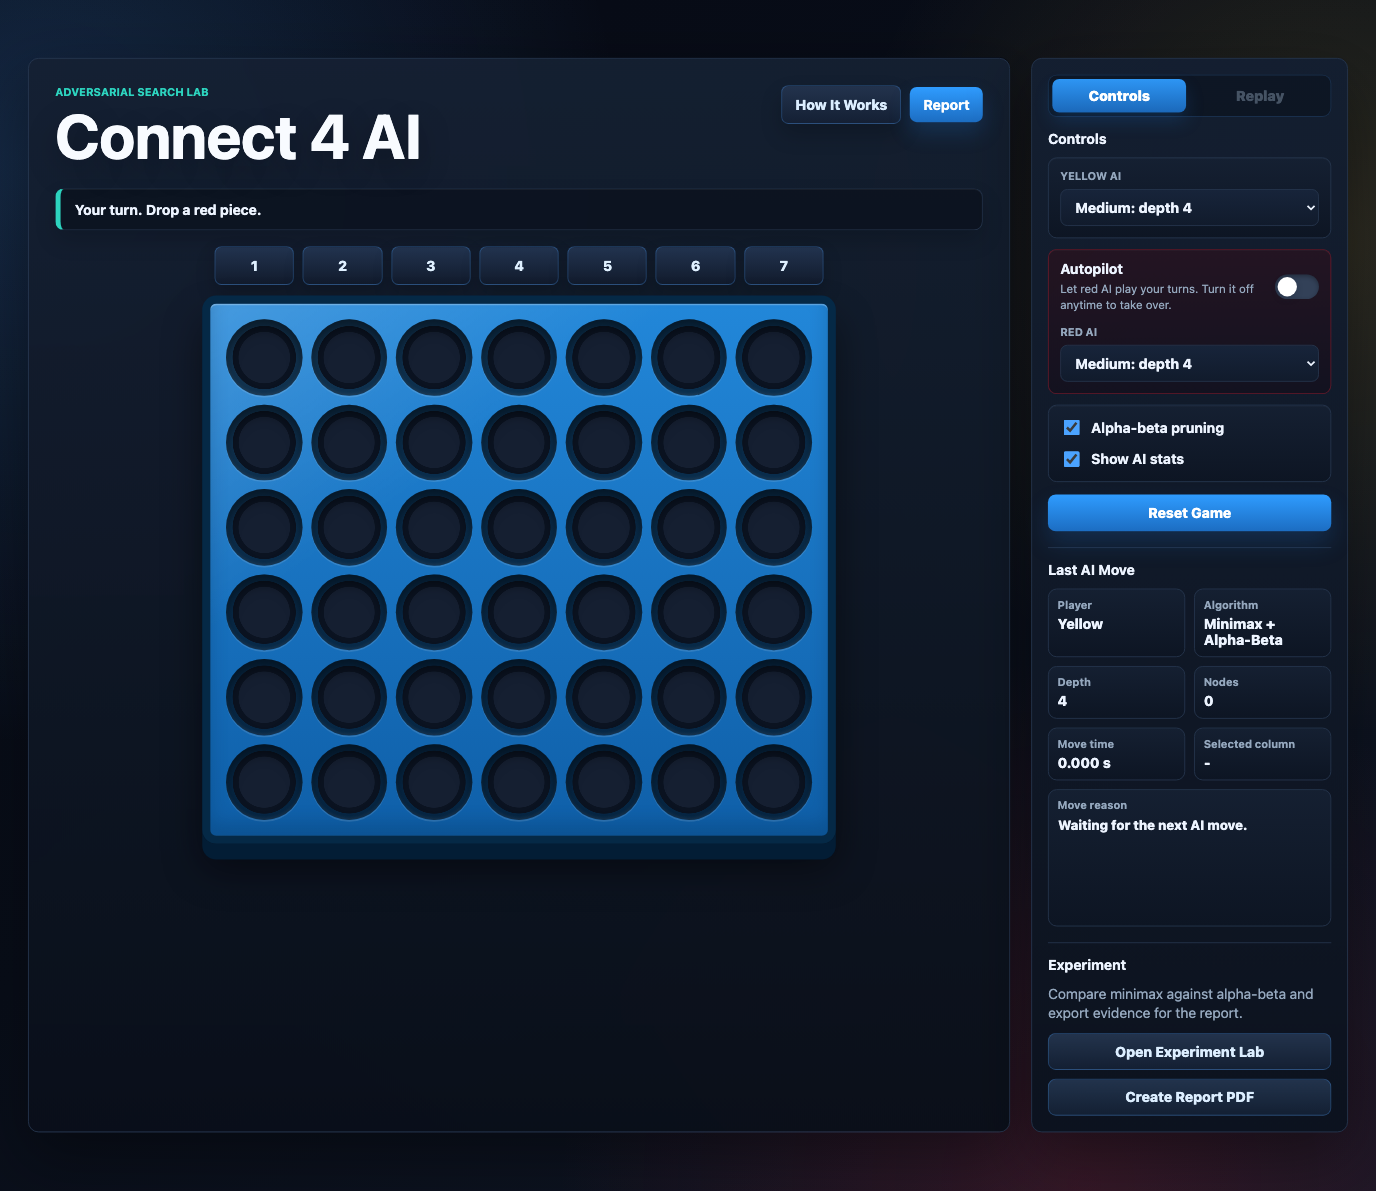
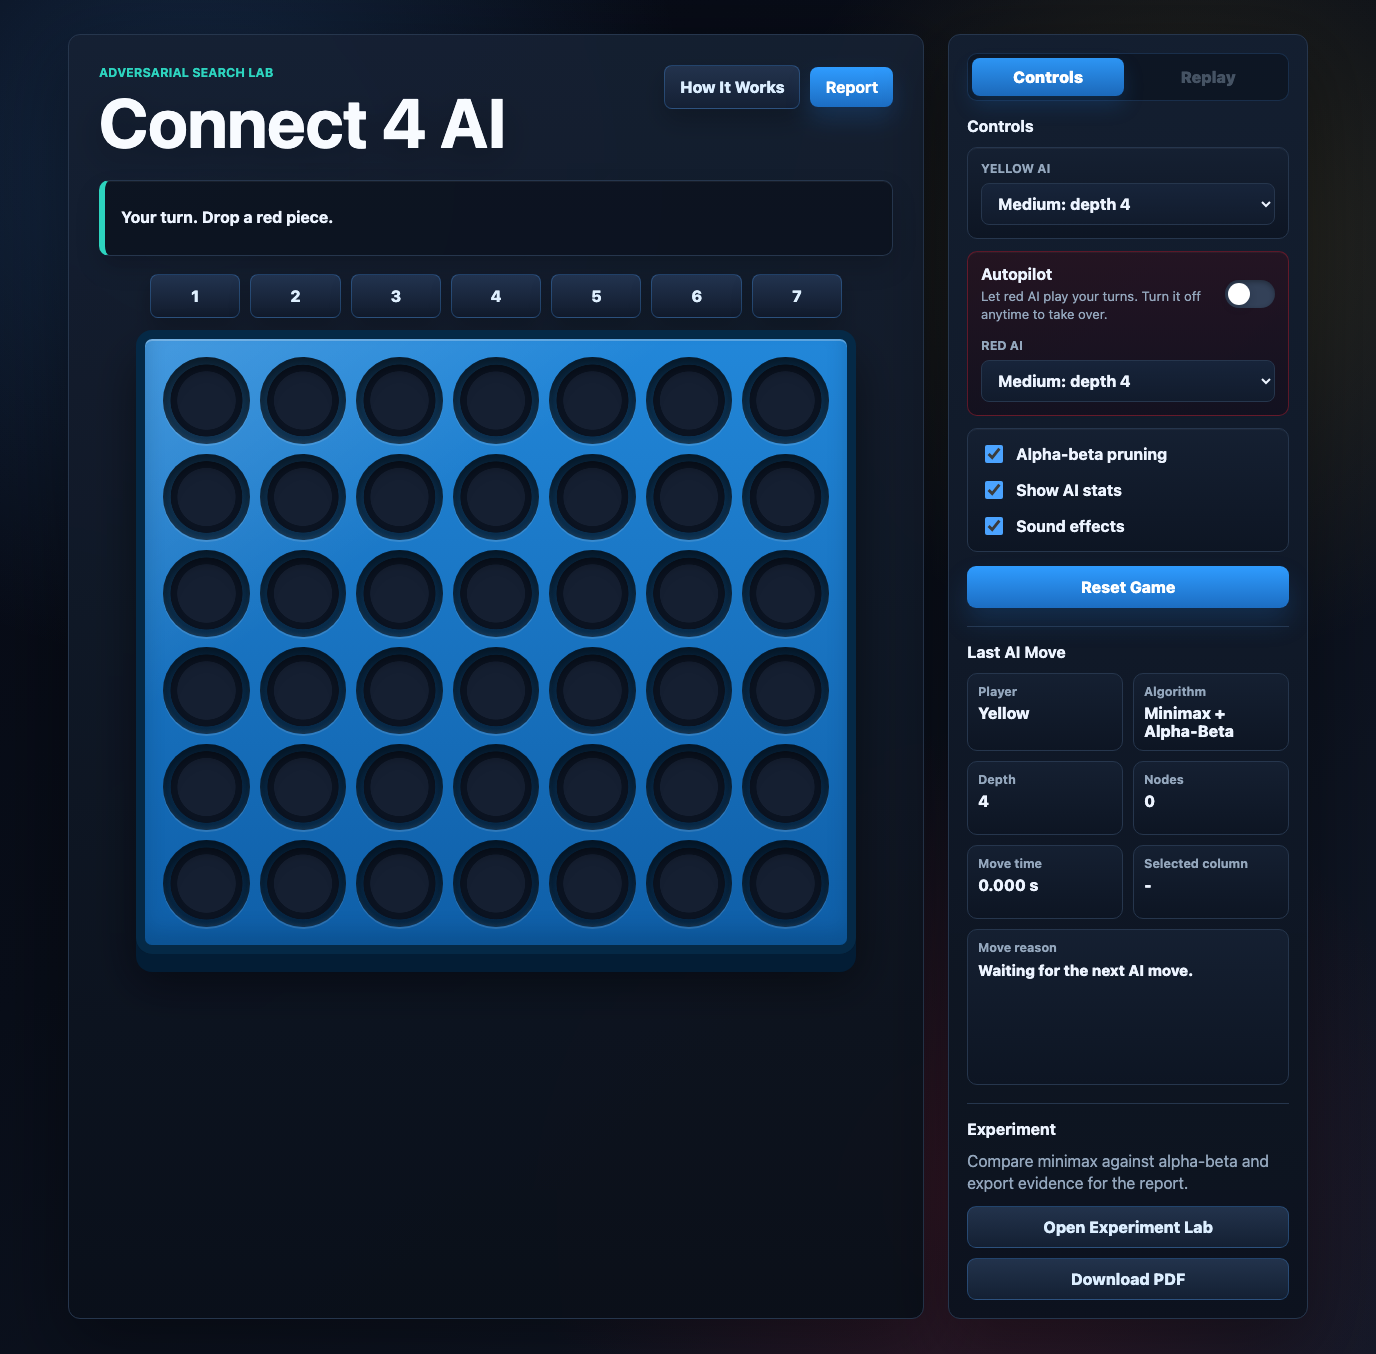
Add CI and pure benchmark validation

diff --git a/game/connect4-experiment.js b/game/connect4-experiment.js
@@ -58,10 +58,11 @@
 
   function runBenchmarkOnState(state, depths = [3, 4, 5]) {
     // For each depth, compare plain minimax against alpha-beta on the same board.
+    const benchmarkOptions = { disableTacticalShortcut: true };
     const rows = [];
     for (const depth of depths) {
-      rows.push(chooseAiMove(state, depth, false));
-      rows.push(chooseAiMove(state, depth, true));
+      rows.push(chooseAiMove(state, depth, false, benchmarkOptions));
+      rows.push(chooseAiMove(state, depth, true, benchmarkOptions));
     }
     return rows;
   }
@@ -122,8 +123,9 @@
 
   function compareDepth(snapshot, depth) {
     // Correct alpha-beta should match plain minimax while searching fewer or equal nodes.
-    const plain = chooseAiMove(snapshot, depth, false);
-    const pruned = chooseAiMove(snapshot, depth, true);
+    const benchmarkOptions = { disableTacticalShortcut: true };
+    const plain = chooseAiMove(snapshot, depth, false, benchmarkOptions);
+    const pruned = chooseAiMove(snapshot, depth, true, benchmarkOptions);
 
     return {
       depth,
@@ -232,9 +234,9 @@
 
     for (const depth of depths) {
       await advance(`Running plain minimax at depth ${depth}...`);
-      const plain = chooseAiMove(boardSnapshot.state, depth, false);
+      const plain = chooseAiMove(boardSnapshot.state, depth, false, { disableTacticalShortcut: true });
       await advance(`Running alpha-beta at depth ${depth}...`, 1);
-      const pruned = chooseAiMove(boardSnapshot.state, depth, true);
+      const pruned = chooseAiMove(boardSnapshot.state, depth, true, { disableTacticalShortcut: true });
       comparisons.push({
         depth,
         plain,
@@ -360,6 +362,7 @@
       `AI matchup checks: ${result.config.includeMatchups ? "enabled" : "disabled"}`,
       `Player context: ${result.currentPlayer}`,
       `Legal moves in board snapshot: ${result.legalMoves.join(", ") || "none"}`,
+      "Benchmark mode: one-ply tactical shortcuts are disabled for plain minimax vs alpha-beta comparisons.",
       "",
       "Main claim:",
       result.conclusion,

diff --git a/game/connect4-engine.js b/game/connect4-engine.js
@@ -278,8 +278,10 @@
     let alpha = -Infinity;
     let beta = Infinity;
 
-    const tacticalResult = createTacticalRootResult(state, depth, useAlphaBeta, player, legalMoves, start);
-    if (tacticalResult) return tacticalResult;
+    if (!options.disableTacticalShortcut) {
+      const tacticalResult = createTacticalRootResult(state, depth, useAlphaBeta, player, legalMoves, start);
+      if (tacticalResult) return tacticalResult;
+    }
 
     for (const col of legalMoves) {
       const next = copyBoard(state);
@@ -327,8 +329,8 @@
     return chooseRootMove(state, depth, useAlphaBeta, player, options);
   }
 
-  function chooseAiMove(state, depth, useAlphaBeta) {
-    return chooseRootMove(state, depth, useAlphaBeta, AI);
+  function chooseAiMove(state, depth, useAlphaBeta, options = {}) {
+    return chooseRootMove(state, depth, useAlphaBeta, AI, options);
   }
 
   function createSeededRandom(seed) {
@@ -622,6 +624,16 @@
       passed: tacticalBlock.move === 3
         && tacticalBlock.nodes <= getLegalMoves(state).length + 1
         && tacticalBlock.reason.includes("one-ply tactical check")
+    });
+    const pureBlock = chooseComputerMove(state, 4, useAlphaBeta, AI, {
+      randomizeTies: false,
+      disableTacticalShortcut: true
+    });
+    checks.push({
+      name: "pure benchmark mode can disable tactical shortcut",
+      passed: pureBlock.move === 3
+        && pureBlock.tactical === undefined
+        && pureBlock.nodes > tacticalBlock.nodes
     });
 
     state = createBoard();

diff --git a/README.md b/README.md
@@ -25,14 +25,15 @@ Open `report.html` for a short technical write-up. Use the Create PDF button to 
 If Node.js is available, run:
 
 ```bash
-node checks/headless-test.js
+npm test
 ```
 
-The headless runner checks Connect 4 rules, invalid and full-column rejection, move ordering, win/draw detection, red minimizer behavior, depth-adjusted terminal scoring, alpha-beta consistency, tie variation, and uneven-depth AI matchups.
+The `npm test` script runs the same reusable headless runner used for local validation and GitHub Actions. It checks Connect 4 rules, invalid and full-column rejection, move ordering, win/draw detection, red minimizer behavior, depth-adjusted terminal scoring, alpha-beta consistency, tie variation, tactical shortcut behavior, and uneven-depth AI matchups.
 
 Additional CLI evidence exports:
 
 ```bash
+node checks/headless-test.js
 node game/connect4-game-controller.js --headless --red-depth=2 --yellow-depth=6 --games=6 --format=summary
 node game/connect4-game-controller.js --experiment --board=midgame --max-depth=6 --format=csv --out=experiment.csv
 node game/connect4-game-controller.js --help
@@ -46,6 +47,7 @@ node game/connect4-game-controller.js --help
 - `game/` - Connect 4 rules, minimax search, alpha-beta pruning, board display, replay, Experiment Lab, and command-line exports
 - `checks/` - optional Node-based validation runner
 - `assets/` - README preview image
+- `.github/workflows/` - GitHub Actions workflow for the headless validation suite
 
 The main game modules are separated by responsibility: `connect4-engine.js` handles rules and search, `connect4-board-ui.js` draws the board, `connect4-game-controller.js` coordinates live play, `connect4-replay-ui.js` handles replay, `connect4-sound.js` creates browser sound effects, `connect4-experiment.js` builds evidence, `connect4-experiment-ui.js` renders the lab, and `connect4-cli.js` powers headless commands.
 
